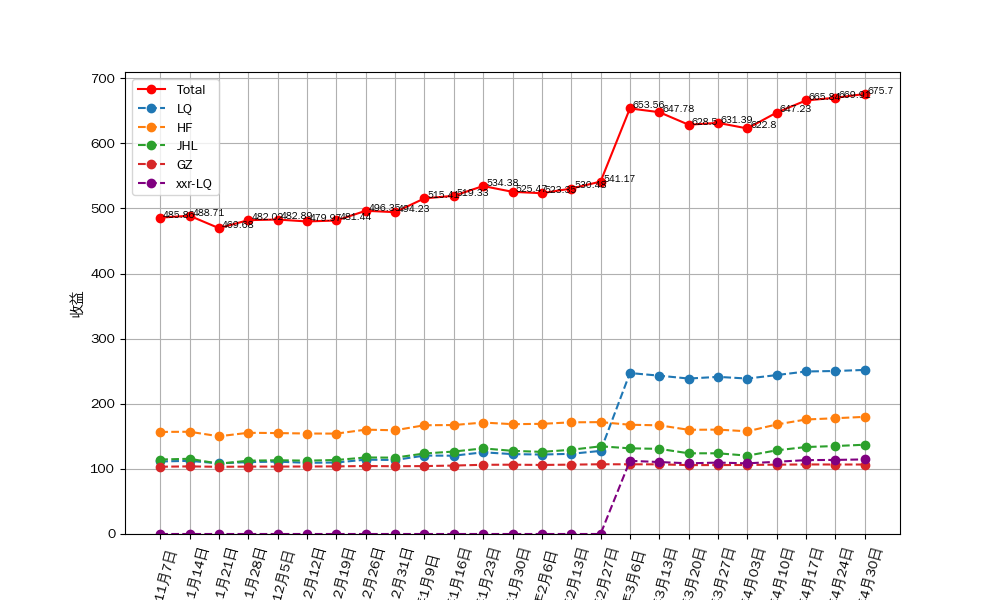
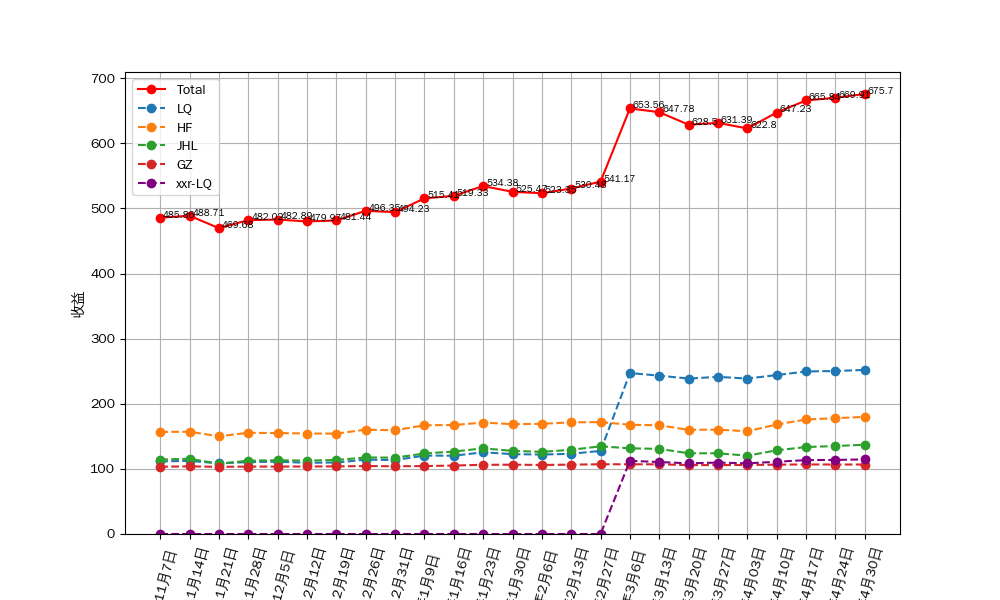
optimized by opencode

diff --git a/mail.py b/mail.py
@@ -4,6 +4,10 @@
 import imaplib
 import email
 import os
+import re
+from datetime import datetime
+import matplotlib.pyplot as plt
+import matplotlib.dates as mdates
 
 def decode_str(s):
     try:
@@ -21,59 +25,119 @@ def decode_str(s):
         subject = str(sub_bytes, sub_charset)
     return subject
 
-def get_email_content():
-    # 邮箱配置（替换为你的信息）
+def parse_nav_from_text(text):
+    records = []
+    # 尝试解析 HTML table 格式: <td>日期</td> ... <td>单位净值</td>
+    rows = re.findall(r'<tr>(.*?)</tr>', text, re.DOTALL)
+    for row in rows:
+        cells = re.findall(r'<td[^>]*>(.*?)</td>', row, re.DOTALL)
+        if len(cells) >= 4:
+            date_raw = re.sub(r'<.*?>', '', cells[0]).strip()
+            nav_raw = re.sub(r'<.*?>', '', cells[3]).strip()
+            m = re.match(r'(\d{4})(\d{2})(\d{2})', date_raw)
+            if m and re.match(r'^\d+\.?\d*$', nav_raw):
+                dt = datetime(int(m.group(1)), int(m.group(2)), int(m.group(3)))
+                records.append((dt, float(nav_raw)))
+    if records:
+        records.sort(key=lambda x: x[0])
+        return records
+    # fallback: 纯文本格式
+    lines = text.split('\n')
+    for line in lines:
+        line = line.strip()
+        if not line:
+            continue
+        m = re.search(r'(\d{4}[-/.]\d{1,2}[-/.]\d{1,2}).*?(\d+\.\d+)', line)
+        if not m:
+            m = re.search(r'(\d{4}年\d{1,2}月\d{1,2}日).*?(\d+\.\d+)', line)
+        if m:
+            date_str, val_str = m.group(1), m.group(2)
+            for fmt in ('%Y-%m-%d', '%Y/%m/%d', '%Y.%m.%d', '%Y年%m月%d日'):
+                try:
+                    dt = datetime.strptime(date_str, fmt)
+                    records.append((dt, float(val_str)))
+                    break
+                except ValueError:
+                    continue
+    records.sort(key=lambda x: x[0])
+    return records
+
+
+def fetch_nav_and_plot():
     IMAP_SERVER = 'imap.163.com'
     EMAIL = os.environ.get('MAIL_USER', '[email redacted]')
     PASSWORD = os.environ.get('MAIL_PASS', 'PMSpb3AXYAiN2ju') #omK
     imap_id = ("name", "sungang", "contact", "[email redacted]", "version", "1.0.0", "vendor", "imaplib")
+
     try:
-        # 连接IMAP服务器
         with imaplib.IMAP4_SSL(IMAP_SERVER) as mail:
-            status, data = mail.login(EMAIL, PASSWORD)
+            status, _ = mail.login(EMAIL, PASSWORD)
             if status != "OK":
                 raise Exception("无法登录")
-            status, cap = mail.capability()
-            if status != "OK":
-                raise Exception("无法获取capability")
-            status, _ = mail.xatom('ID', '("' + '" "'.join(imap_id) + '")')
-            if status != "OK":
-                raise Exception("无法执行xatom ID")
-            status, maillist = mail.list()
-            if status != "OK":
-                raise Exception("无法获取邮箱目录列表")
-            #print(maillist)
-            status, message = mail.select(mailbox='INBOX', readonly=True) # 选择收件箱
-            #status, message = mail.select(b'() "/" "INBOX"') # 选择收件箱
-            if status != "OK":
-                raise Exception("无法选择邮箱")
-            status, messages = mail.search(None, 'ALL')
-            if status != 'OK': 
-                print("没有找到邮件") 
-                return
-            # 获取邮件列表
-            email_ids = messages[0].split() 
-            print(f"找到 {len(email_ids)} 封新邮件")
-            for email_id in email_ids:
-                status, msg_data = mail.fetch(email_id, '(RFC822)')
+            mail.xatom('ID', '("' + '" "'.join(imap_id) + '")')
+            mail.select(mailbox='INBOX', readonly=True)
+
+            status, messages = mail.search('UTF-8', '(SUBJECT "幻方")'.encode('utf-8'))
+            if status != 'OK' or not messages[0]:
+                print("UTF-8 搜索无结果，尝试全量搜索后本地过滤...")
+                status, messages = mail.search(None, 'ALL')
+
+            email_ids = messages[0].split()
+            print(f"待筛选邮件数: {len(email_ids)}")
+
+            all_records = []
+            for eid in email_ids:
+                status, msg_data = mail.fetch(eid, '(RFC822)')
                 if status != 'OK':
                     continue
-                raw_email = msg_data[0][1]
-                msg = email.message_from_bytes(raw_email)
+                msg = email.message_from_bytes(msg_data[0][1])
                 subject = decode_str(msg['Subject'])
-                from_ = decode_str(msg['From'])
-                print(f"\n主题: {subject}")
-                print(f"发件人: {from_}")
+                if '幻方' not in subject:
+                    continue
+                print(f"  解析: {subject}")
                 for part in msg.walk():
-                    if part.get_content_type() == 'text/plain':
-                        body = part.get_payload(decode=True).decode('utf-8', errors='ignore')
-                        print(f"正文:\n{body.strip()}")
+                    if part.get_content_type() in ('text/plain', 'text/html'):
+                        payload = part.get_payload(decode=True)
+                        if payload:
+                            body = payload.decode('utf-8', errors='ignore')
+                            records = parse_nav_from_text(body)
+                            all_records.extend(records)
+
             mail.close()
             mail.logout()
 
-    except Exception as e: 
-        print(f"发生错误: {str(e)}") 
+        if not all_records:
+            print("未在邮件正文中找到净值数据")
+            return
+
+        print(f"\n共提取 {len(all_records)} 条净值记录")
+        dates, values = zip(*all_records)
+
+        # 输出表格
+        print(f"\n{'日期':<16} {'净值':>8}")
+        print('-' * 26)
+        for d, v in all_records:
+            print(f"{d.strftime('%Y-%m-%d'):<16} {v:>8.4f}")
+
+        # 绘图
+        plt.rcParams['font.family'] = "WenQuanYi Zen Hei"
+        plt.figure(figsize=(12, 6))
+        plt.plot(dates, values, marker='o', linestyle='-', color='#e74c3c', linewidth=2, markersize=5)
+        plt.gca().xaxis.set_major_formatter(mdates.DateFormatter('%Y-%m-%d'))
+        plt.gcf().autofmt_xdate(rotation=45)
+        plt.xlabel('时间')
+        plt.ylabel('净值')
+        plt.title('幻方净值走势')
+        plt.grid(True, alpha=0.3)
+        plt.tight_layout()
+        plt.savefig('nav_trend.png')
+        print(f"\n趋势图已保存: nav_trend.png")
+        plt.show()
+
+    except Exception as e:
+        print(f"发生错误: {str(e)}")
+
 
 if __name__ == '__main__':
-    get_email_content()
+    fetch_nav_and_plot()
 